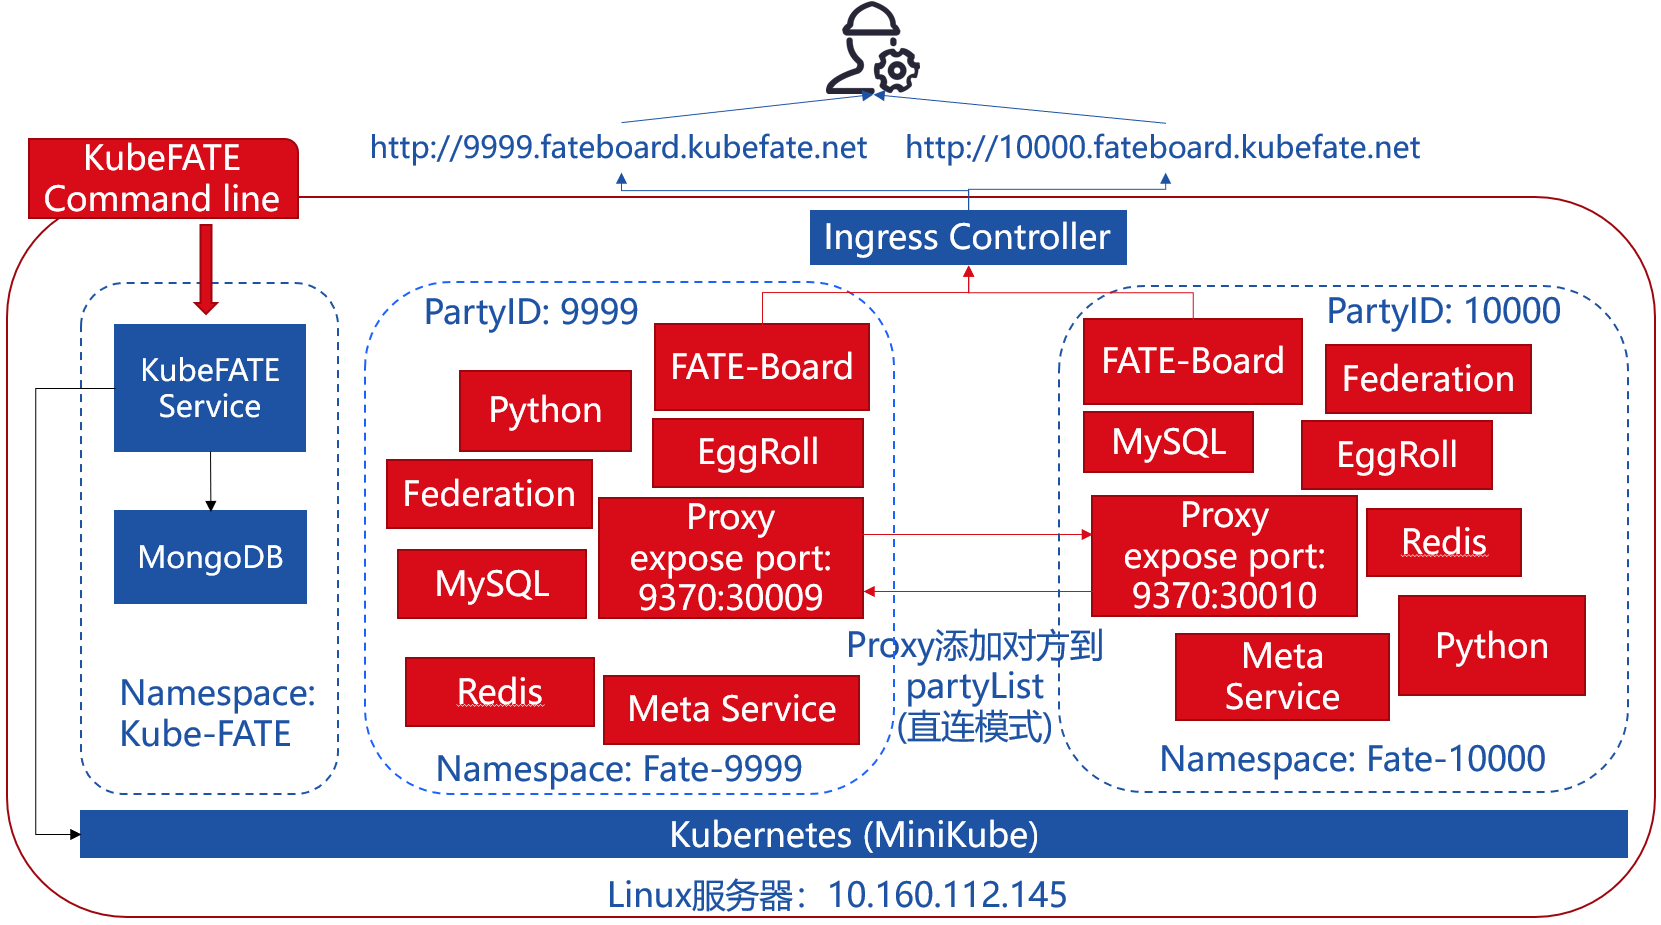
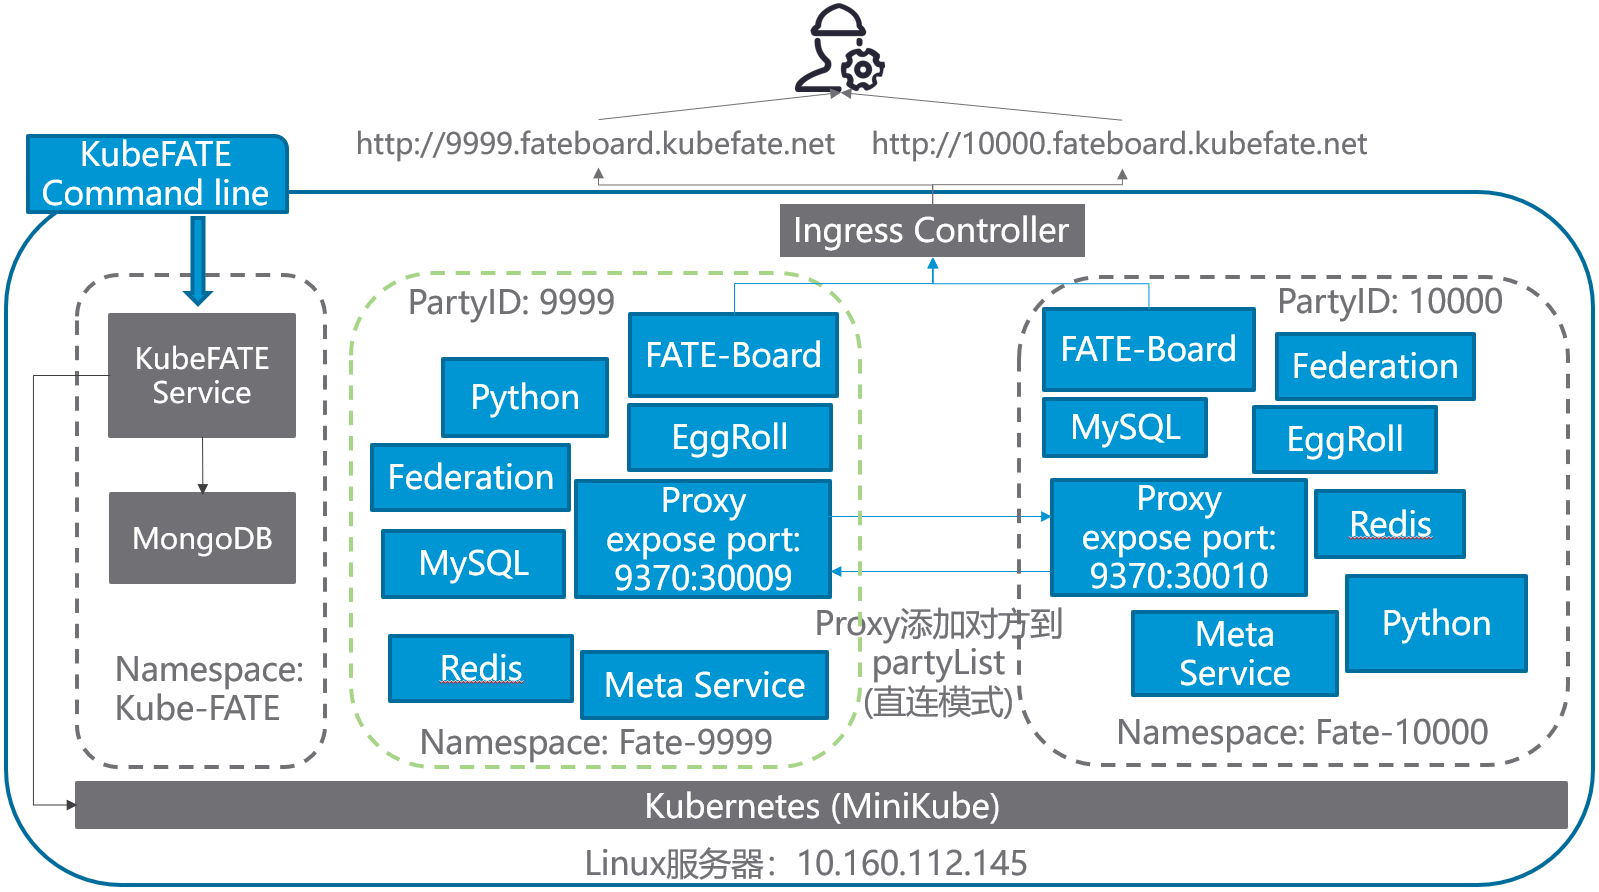
1. Change the image to blue theme; 2. Add description of machine used.

diff --git a/kubeFATEGuide.md b/kubeFATEGuide.md
@@ -30,6 +30,10 @@ KubeFATE的[Kubernetes部署](https://github.com/FederatedAI/KubeFATE/releases/d
   <img src="./images/goal.png">
 </div>
 
+本文共出现两台机器：
+1. 用来做Demo的机器，是一台Linux机器，参照[前置条件第一点](#前置条件);
+2. 使用浏览器访问FATE-Board的机器，要求可以访问用来执行Demo的机器。
+
 ### 前置条件
 1. 一台Linux的服务器，我们测试好的OS版本是Ubuntu 18.04 LTS，由于需要跑多方计算，服务器的推荐配置为：8核，16G内存以上；
 2. 两个域名分别给KubeFATE服务和FATE-board使用。如果没有DNS解析条件，可以通过设置hosts方式，后面的介绍基于这种情况；
@@ -51,8 +55,6 @@ cd ~ && mkdir demo && cd demo
 	* Release: v1.3.1-a
 	* 服务版本：v1.0.2
 	* 命令行版本：v1.0.2
-
-说明一下下面这些命令在哪台机器上运行？cli或者minikube的机器？(LP)
 
 #### 安装kubectl
 ```
